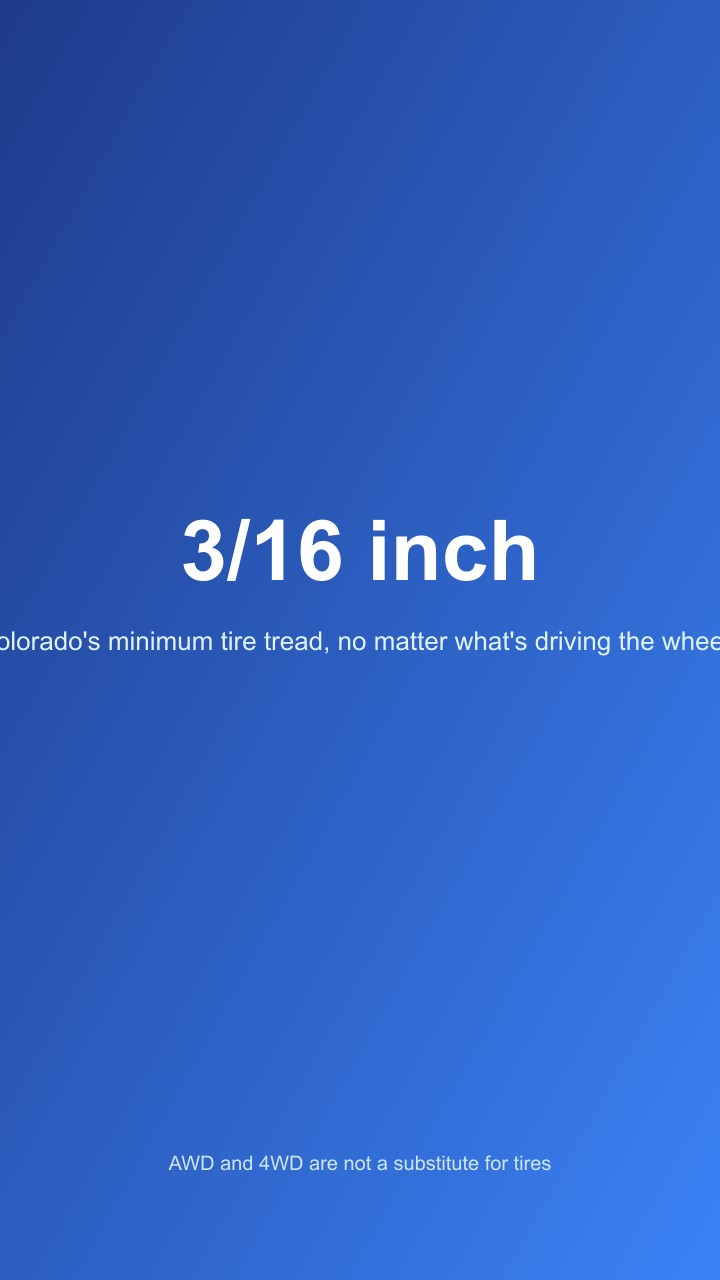
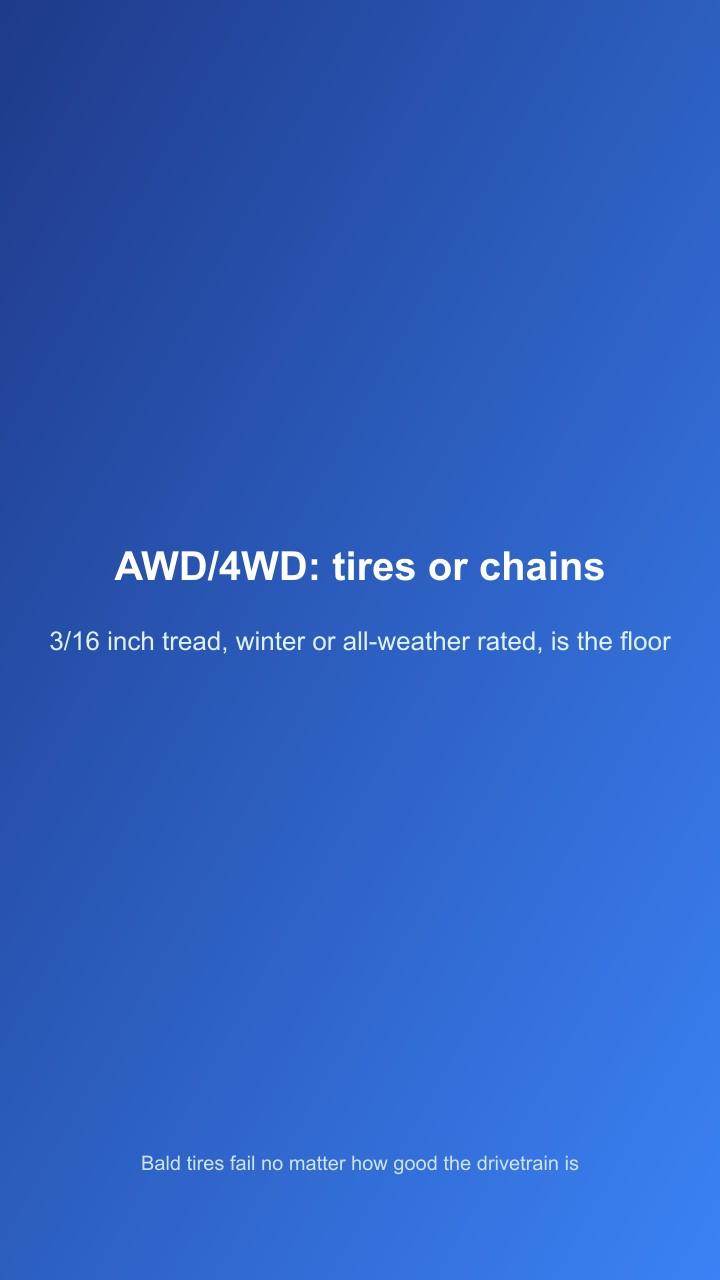
Rewrite colorado-traction-law-2026 after top-10 competitor comparison
Corrects the central claim after checking CDOT, CSP-quoted local news,
and legal/dealer blogs ranking for this keyword: two-wheel-drive vehicles
need chains or an approved device regardless of tire rating, they don't
get the tires-alone option that AWD/4WD vehicles have. Adds the rental
car angle (SB25-069 notification requirement, DIA/Enterprise tags, AAA
and state senator quotes), real enforcement numbers (586 citations,
522 on I-70), and a bald-tire spinout statistic. Updates web story cards
to match.

Claude-Session: https://claude.ai/code/session_0137wNLphAPmSsEruyDiu6i5

Changed region(s): [[0.0, 0.4062, 1.0, 0.5312], [0.1833, 0.9062, 0.7944, 0.9375]]

diff --git a/lib/web-stories.ts b/lib/web-stories.ts
@@ -2939,9 +2939,9 @@ export const webStories: WebStory[] = [
   {
     slug: "colorado-traction-law-2026",
     postSlug: "colorado-traction-law-2026",
-    title: "Colorado Traction Law 2026: Now Your 2WD Car Is Covered Too",
+    title: "Colorado Traction Law 2026: Why Your 2WD Car Still Needs Chains",
     description:
-      "HB26-1237 took effect September 1, 2026, extending Colorado's Traction Law to two-wheel-drive cars. Tread requirements, fines, and what AWD does and doesn't cover.",
+      "A Colorado trooper says 2WD cars need chains even with good winter tires. What changed under HB26-1237, the new rental car rules, fines, and real enforcement numbers.",
     pages: [
       {
         image: CT + "story-1.jpg",
@@ -2952,38 +2952,38 @@ export const webStories: WebStory[] = [
       },
       {
         image: CT + "story-2.jpg",
-        alt: "A blue card reading 2WD is covered now, HB26-1237 closes the gap, effective September 1 2026",
-        kicker: "What changed",
-        heading: "2WD is covered now",
-        text: "No more assuming the traction law doesn't apply to your car.",
+        alt: "A blue card reading no tire-only option, a CSP trooper says 2WD cars need chains even with good tires",
+        kicker: "The surprise",
+        heading: "No tire-only option",
+        text: "Snow tires alone don't satisfy the law for 2WD vehicles.",
       },
       {
         image: CT + "story-3.jpg",
-        alt: "A dark blue card reading 3/16 inch, Colorado's minimum tire tread, no matter what's driving the wheels",
-        kicker: "The requirement",
-        heading: "3/16 inch",
-        text: "AWD and 4WD are not a substitute for tires.",
+        alt: "A dark blue card reading AWD and 4WD, tires or chains, 3/16 inch tread is the floor",
+        kicker: "The easier path",
+        heading: "AWD/4WD: tires or chains",
+        text: "Bald tires fail no matter how good the drivetrain is.",
       },
       {
         image: CT + "story-4.jpg",
-        alt: "A purple card reading chains always work, cable chains or an approved device satisfy the law on any tires",
-        kicker: "The fallback",
-        heading: "Chains always work",
-        text: "AutoSock, ISSE Tire Sock, Alpha Trax, and EasySox all qualify.",
+        alt: "A purple card reading rental cars included, companies must now warn renters about the traction law",
+        kicker: "What's new",
+        heading: "Rental cars included",
+        text: "Renters must comply even if the contract says otherwise.",
       },
       {
         image: CT + "story-5.jpg",
-        alt: "An amber card reading $100 to $500, CDOT's published fine range, higher if you close a lane",
+        alt: "An amber card reading $100 to $500, the commonly cited fine range, higher if you close a lane",
         kicker: "The fine",
         heading: "$100 to $500",
-        text: "Check codot.gov before you drive, figures vary by source.",
+        text: "Figures vary by source, check codot.gov before you drive.",
       },
       {
         image: CT + "story-6.jpg",
         alt: "Radial cable chains installed on a car tire",
         kicker: "Read the full guide",
-        heading: "What AWD doesn't cover",
-        text: "Everything that changed in Colorado's traction law for 2026-27.",
+        heading: "What actually changed",
+        text: "Why 2WD cars still need chains, and what AWD/4WD gets instead.",
       },
     ],
   },
